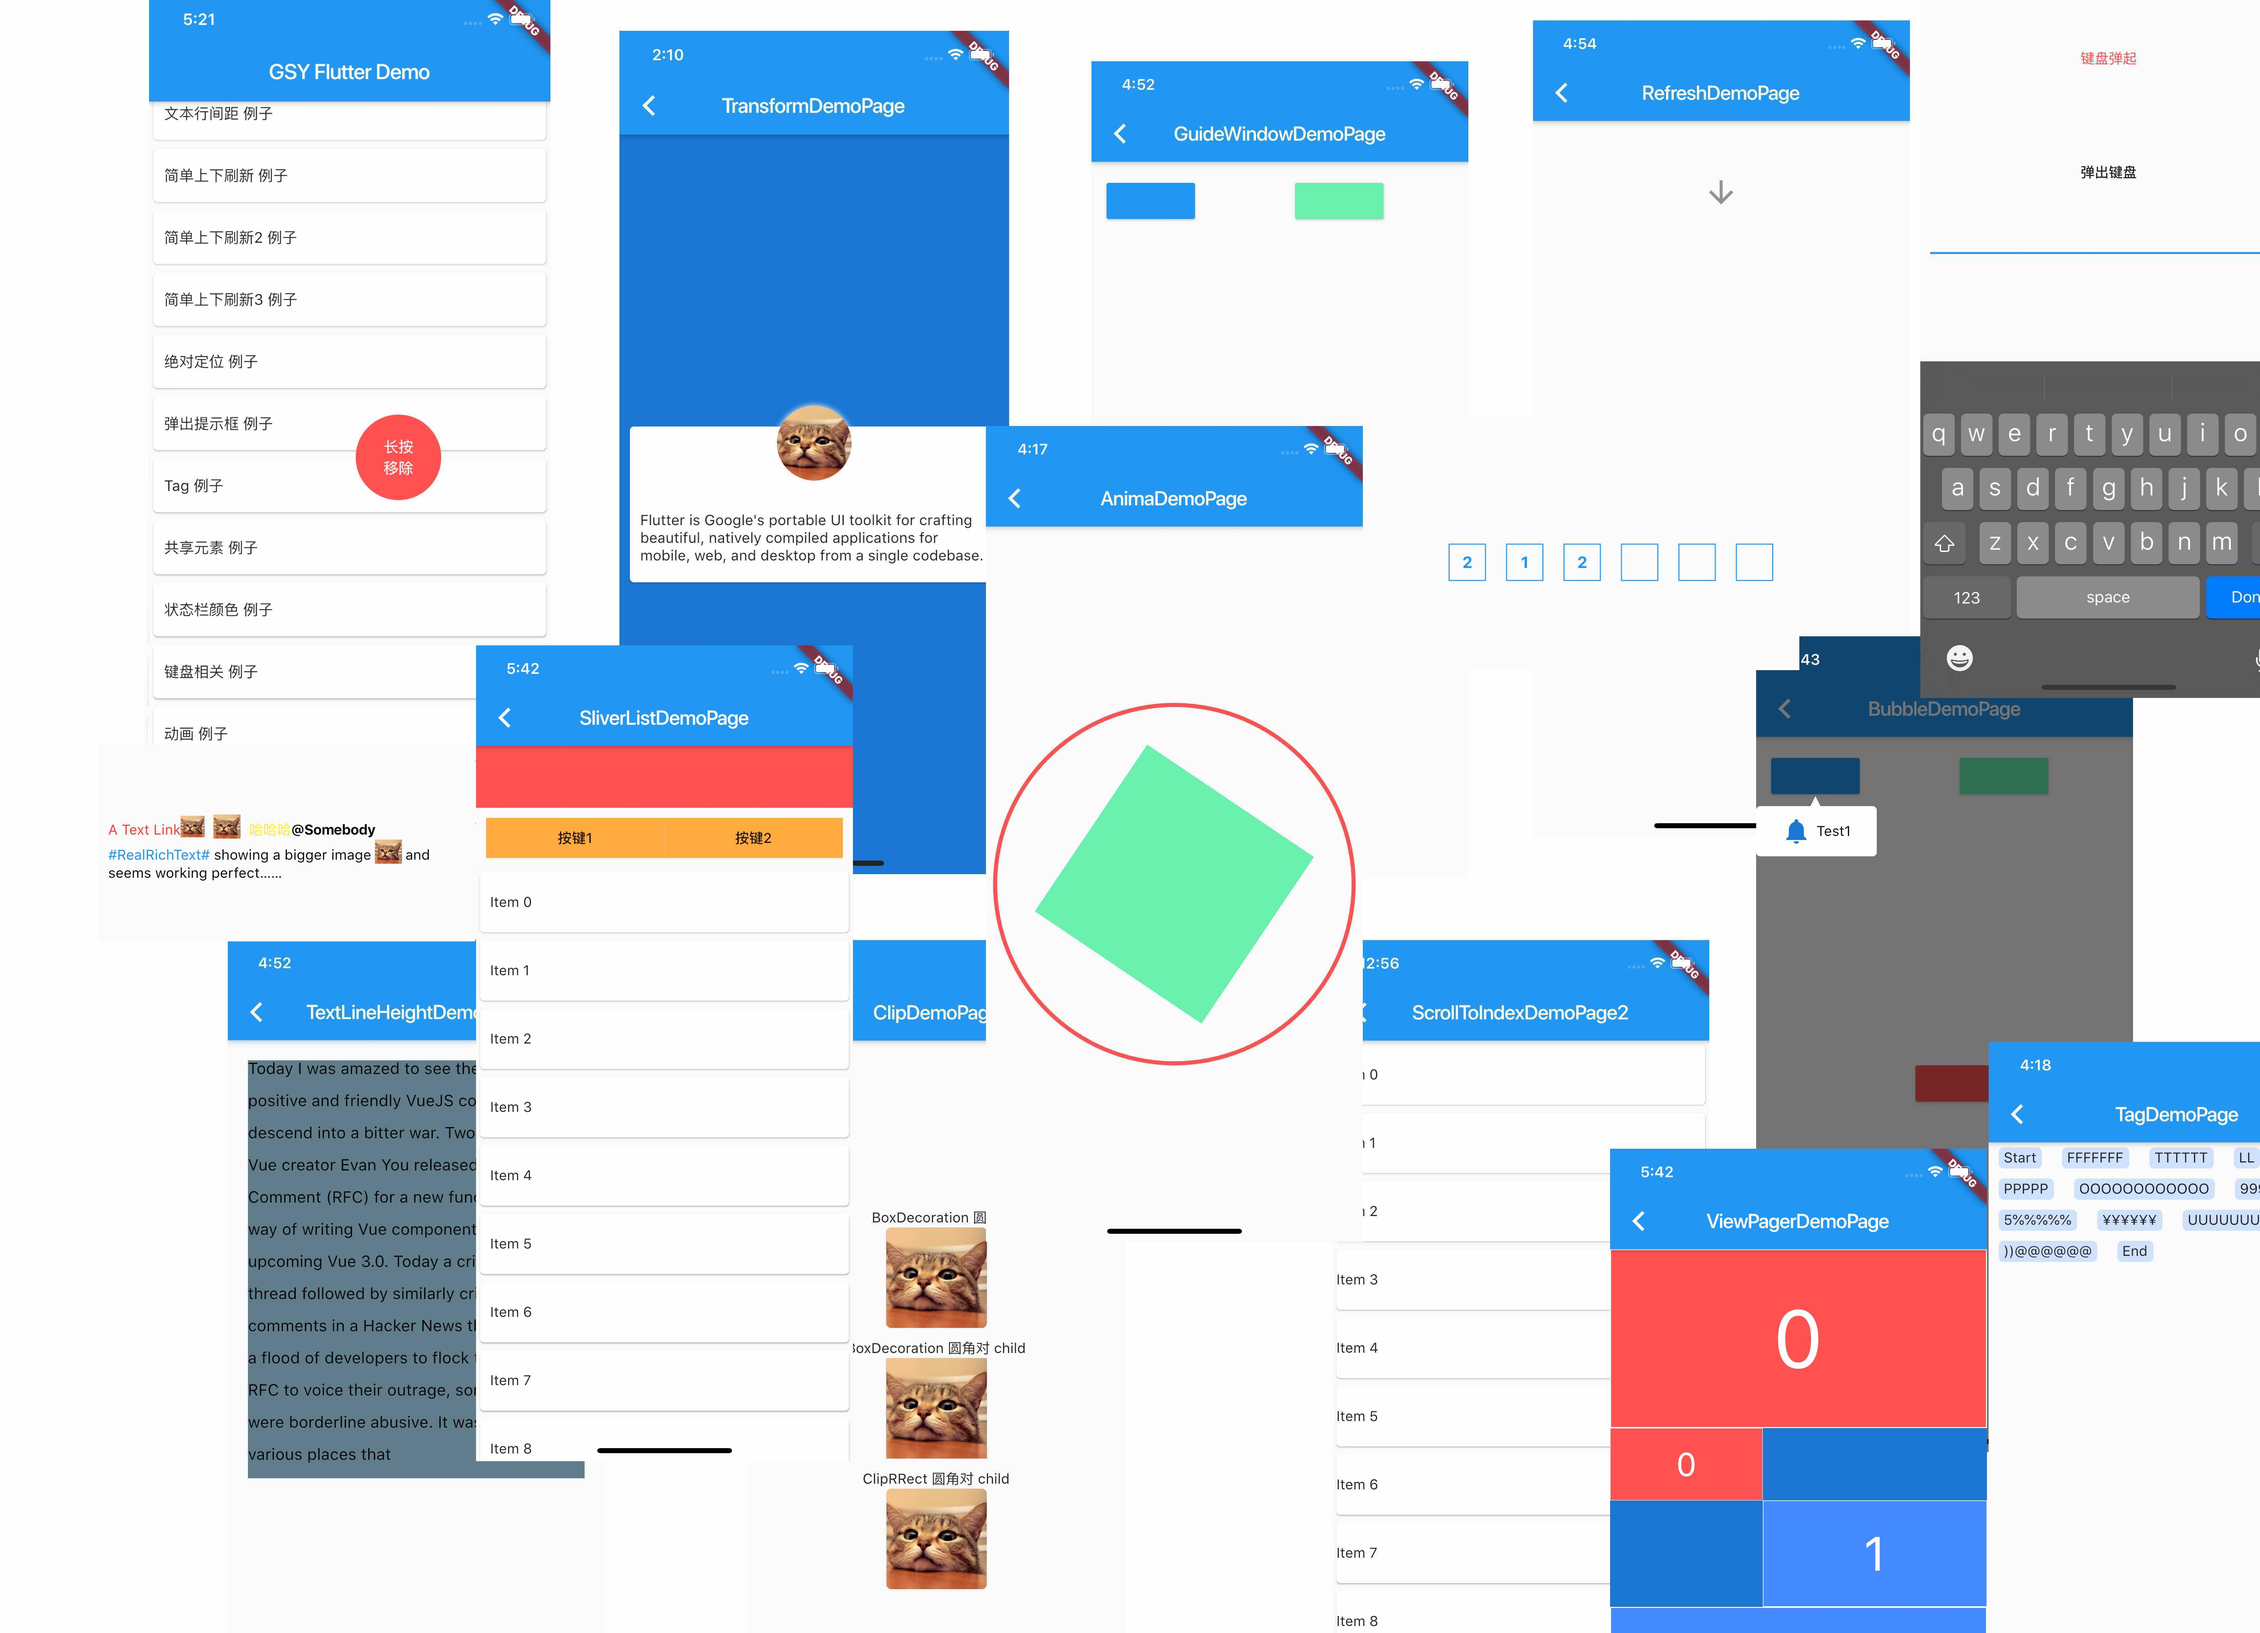
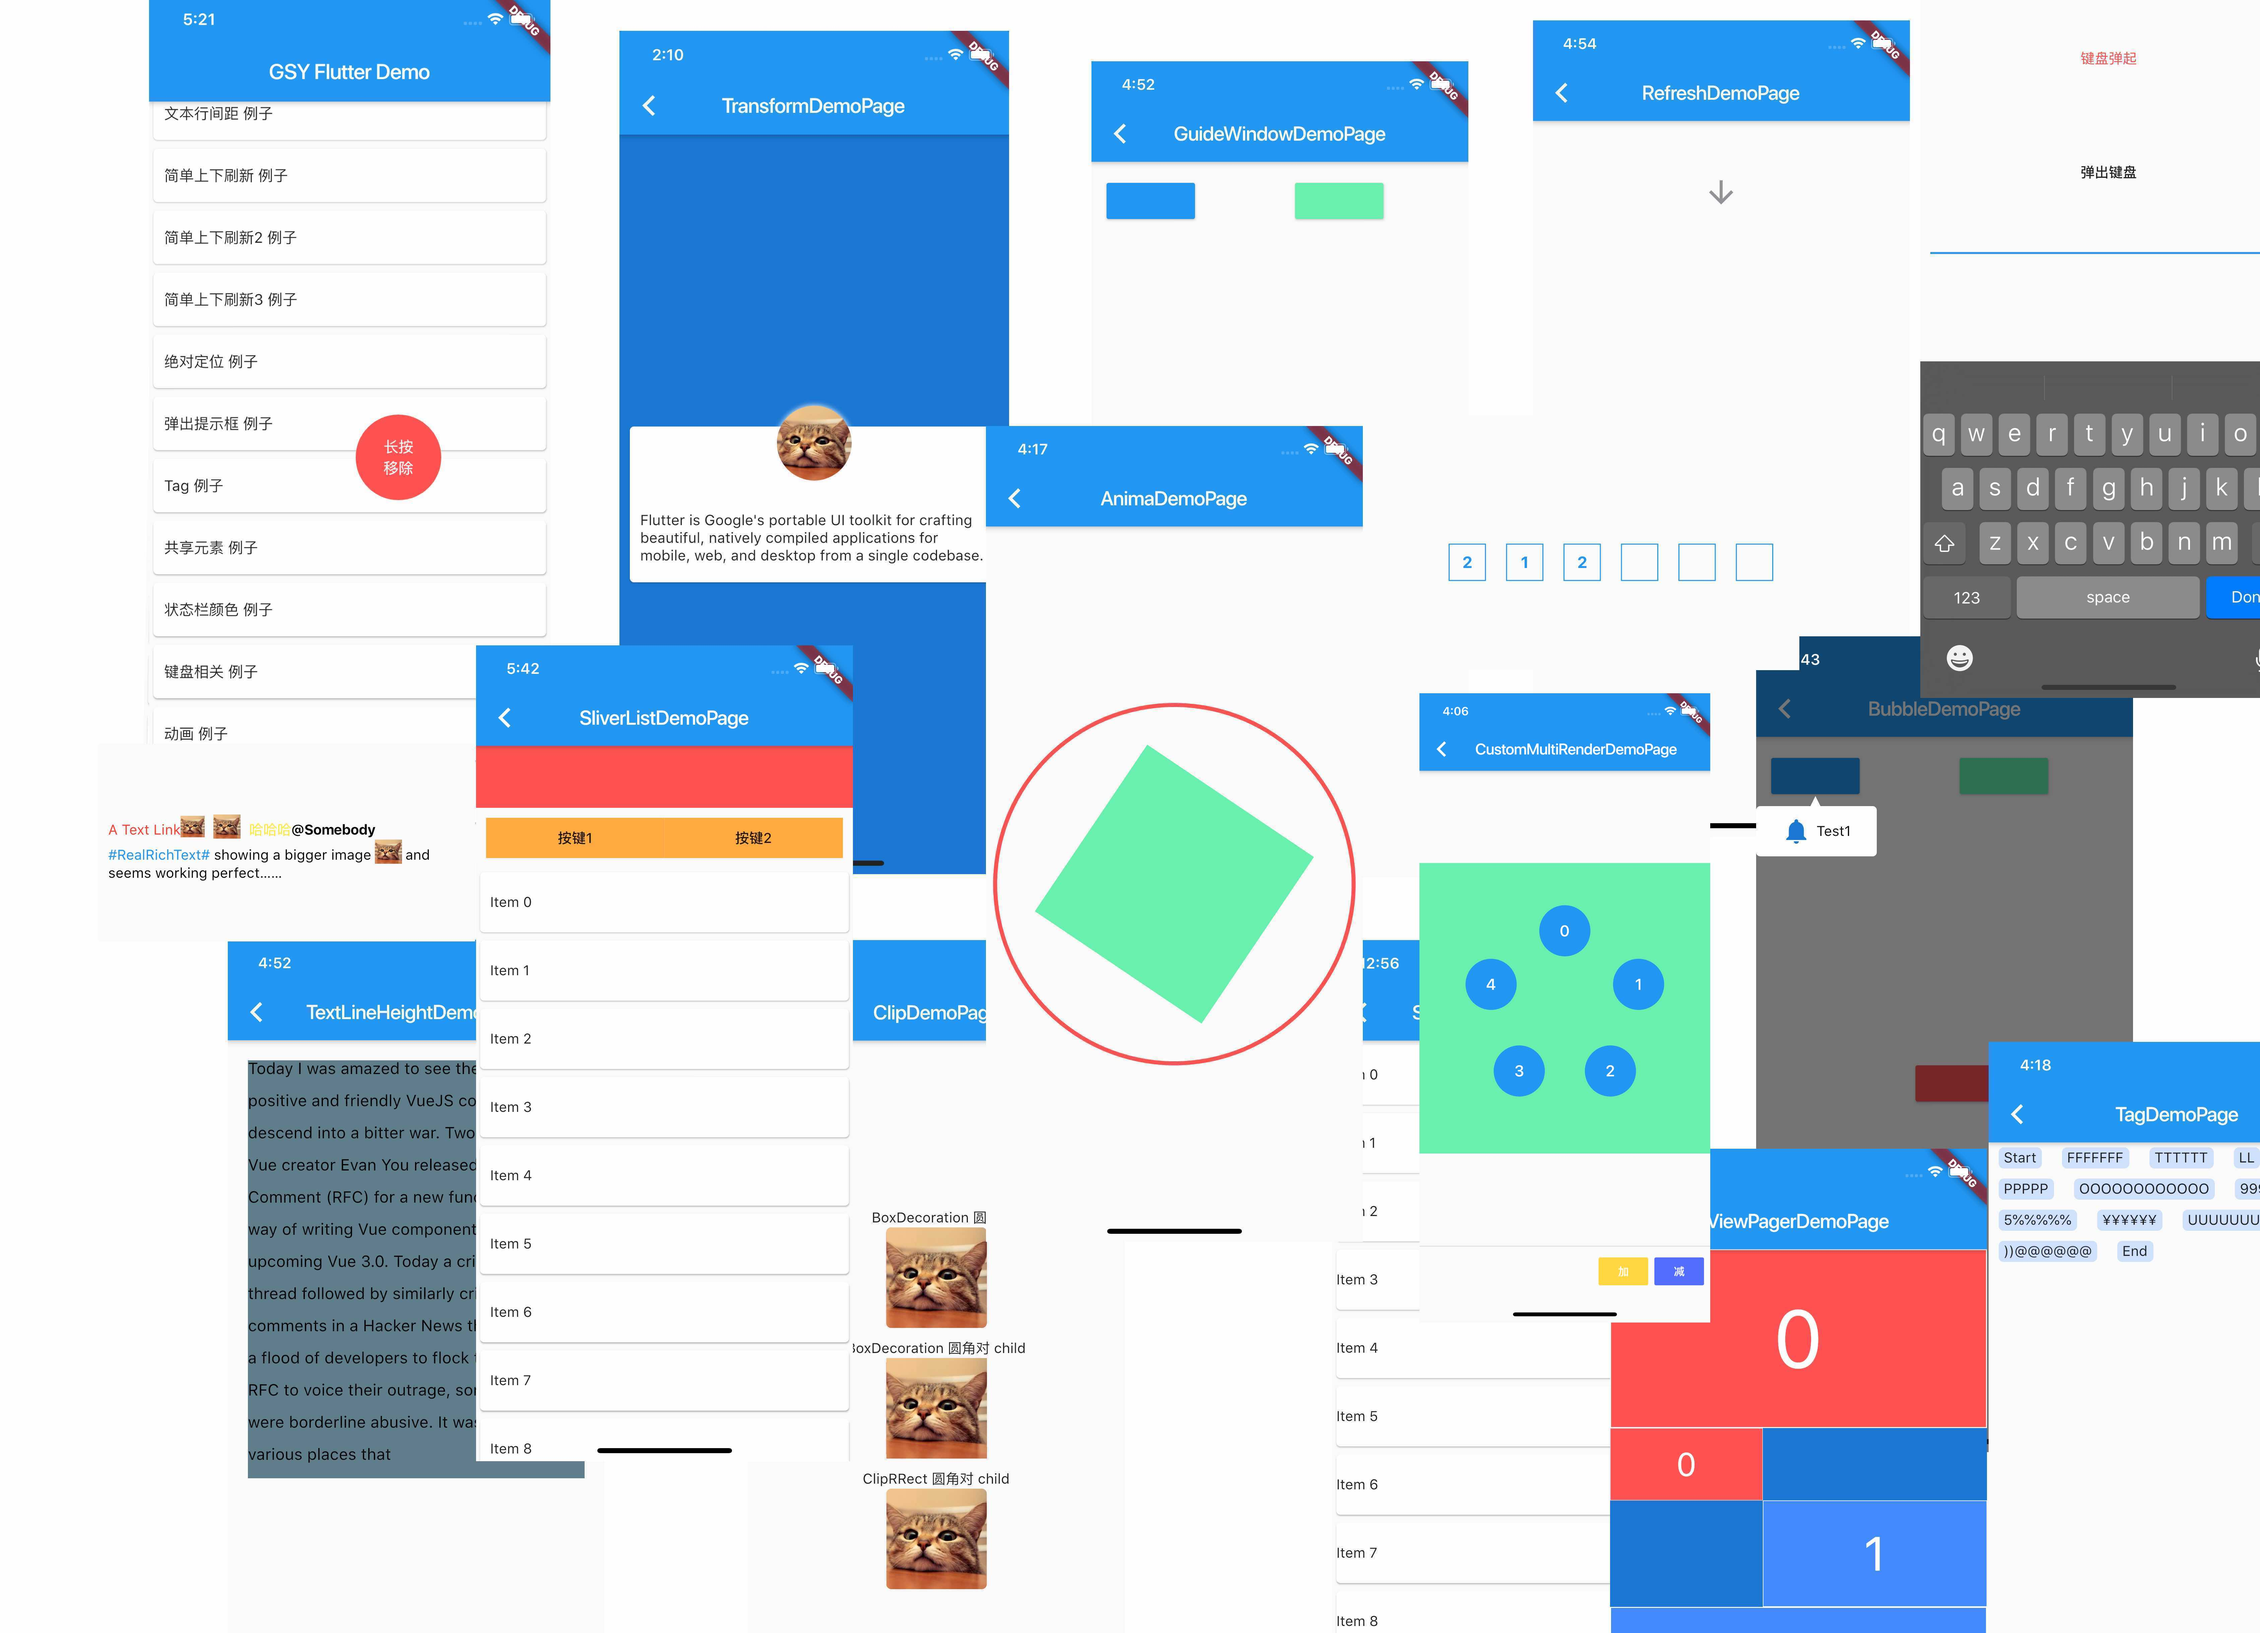
增加自定义布局例子

Changed region(s): [[0.6226, 0.4053, 0.7782, 0.8105]]

diff --git a/lib/widget/custom_multi_render_demo_page.dart b/lib/widget/custom_multi_render_demo_page.dart
@@ -1,0 +1,163 @@
+import 'dart:math' as math;
+
+import 'package:flutter/material.dart';
+
+///通过 CustomMultiChildLayout 自定义控件
+class CustomMultiRenderDemoPage extends StatefulWidget {
+  @override
+  _CustomMultiRenderDemoPageState createState() =>
+      _CustomMultiRenderDemoPageState();
+}
+
+class _CustomMultiRenderDemoPageState extends State<CustomMultiRenderDemoPage> {
+  ///用于 LayoutId 指定
+  ///CircleLayoutDelegate 操作具体 Child 的 ChildId 是通过 LayoutId 指定的
+  List customLayoutId = ["0", "1", "2", "3", "4"].toList();
+
+  @override
+  Widget build(BuildContext context) {
+    double childSize = 66;
+    return Scaffold(
+      appBar: AppBar(
+        title: new Text("CustomMultiRenderDemoPage"),
+      ),
+      body: new Center(
+        child: new Container(
+          color: Colors.greenAccent,
+          width: MediaQuery.of(context).size.width,
+          height: MediaQuery.of(context).size.width,
+
+          ///使用 CustomMultiChildLayout
+          child: CustomMultiChildLayout(
+            ///使用 CircleLayoutDelegate 实现 child 的布局
+            delegate: CircleLayoutDelegate(customLayoutId,
+
+                ///这里外部指定 child 的大小
+                childSize: Size(childSize, childSize),
+
+                ///中心点位置
+                center: Offset(MediaQuery.of(context).size.width / 2,
+                    MediaQuery.of(context).size.width / 2)),
+            children: <Widget>[
+              ///使用 LayoutId 指定 childId
+              for (var item in customLayoutId)
+                new LayoutId(id: item, child: ContentItem(item, childSize)),
+            ],
+          ),
+        ),
+      ),
+      persistentFooterButtons: <Widget>[
+        new FlatButton(
+          color: Colors.amberAccent,
+          onPressed: () {
+            setState(() {
+              customLayoutId.add("${customLayoutId.length}");
+            });
+          },
+          child: new Text(
+            "加",
+            style: TextStyle(color: Colors.white),
+          ),
+        ),
+        new FlatButton(
+          color: Colors.indigoAccent,
+          onPressed: () {
+            setState(() {
+              if (customLayoutId.length > 1) {
+                customLayoutId.removeLast();
+              }
+            });
+          },
+          child: new Text(
+            "减",
+            style: TextStyle(color: Colors.white),
+          ),
+        ),
+      ],
+    );
+  }
+}
+
+///自定义实现圆形布局
+class CircleLayoutDelegate extends MultiChildLayoutDelegate {
+  final List<String> customLayoutId;
+
+  final Offset center;
+
+  Size childSize;
+
+  CircleLayoutDelegate(this.customLayoutId,
+      {this.center = Offset.zero, this.childSize});
+
+  @override
+  void performLayout(Size size) {
+    for (var item in customLayoutId) {
+      if (hasChild(item)) {
+        double r = 100;
+
+        int index = int.parse(item);
+
+        double step = 360 / customLayoutId.length;
+
+        double hd = (2 * math.pi / 360) * step * index;
+
+        var x = center.dx + math.sin(hd) * r;
+
+        var y = center.dy - math.cos(hd) * r;
+
+        childSize ??= Size(size.width / customLayoutId.length,
+            size.height / customLayoutId.length);
+
+        ///设置 child 大小
+        layoutChild(item, BoxConstraints.loose(childSize));
+
+        final double centerX = childSize.width / 2.0;
+
+        final double centerY = childSize.height / 2.0;
+
+        var result = new Offset(x - centerX, y - centerY);
+
+        ///设置 child 位置
+        positionChild(item, result);
+      }
+    }
+  }
+
+  @override
+  bool shouldRelayout(MultiChildLayoutDelegate oldDelegate) => false;
+}
+
+///child
+class ContentItem extends StatelessWidget {
+  final String text;
+
+  final double childSize;
+
+  ContentItem(this.text, this.childSize);
+
+  @override
+  Widget build(BuildContext context) {
+    return Material(
+      color: Theme.of(context).primaryColor,
+      borderRadius: BorderRadius.circular(childSize / 2.0),
+      child: InkWell(
+        radius: childSize / 2.0,
+        customBorder: CircleBorder(),
+        onTap: () {},
+        child: Container(
+          width: childSize,
+          height: childSize,
+          child: Center(
+            child: Text(
+              text,
+              style: Theme.of(context)
+                  .textTheme
+                  .title
+                  .copyWith(color: Colors.white),
+            ),
+          ),
+        ),
+      ),
+    );
+  }
+}

diff --git a/lib/main.dart b/lib/main.dart
@@ -4,6 +4,7 @@ import 'package:gsy_flutter_demo/widget/anima_demo_page2.dart';
 import 'package:gsy_flutter_demo/widget/bubble/bubble_demo_page.dart';
 import 'package:gsy_flutter_demo/widget/clip_demo_page.dart';
 import 'package:gsy_flutter_demo/widget/controller_demo_page.dart';
+import 'package:gsy_flutter_demo/widget/custom_multi_render_demo_page.dart';
 import 'package:gsy_flutter_demo/widget/custom_pull/refrsh_demo_page3.dart';
 import 'package:gsy_flutter_demo/widget/floating_touch_demo_page.dart';
 import 'package:gsy_flutter_demo/widget/honor_demo_page.dart';
@@ -107,6 +108,7 @@ const routerName = [
   "viewpager 例子",
   "滑动停靠 例子",
   "验证码输入框 例子",
+  "自定义布局 例子",
 ];
 
 Map<String, WidgetBuilder> routers = {
@@ -181,6 +183,9 @@ Map<String, WidgetBuilder> routers = {
   },
   "widget/vc": (context) {
     return new VerificationCodeInputDemoPage();
+  },
+  "widget/cmd": (context) {
+    return new CustomMultiRenderDemoPage();
   },
 
 };

diff --git a/README.md b/README.md
@@ -28,6 +28,7 @@
 - **ViewPager 例子**
 - **滑动停靠 例子**
 - **验证码输入框 例子**
+- **自定义布局 例子**
 
 
 
